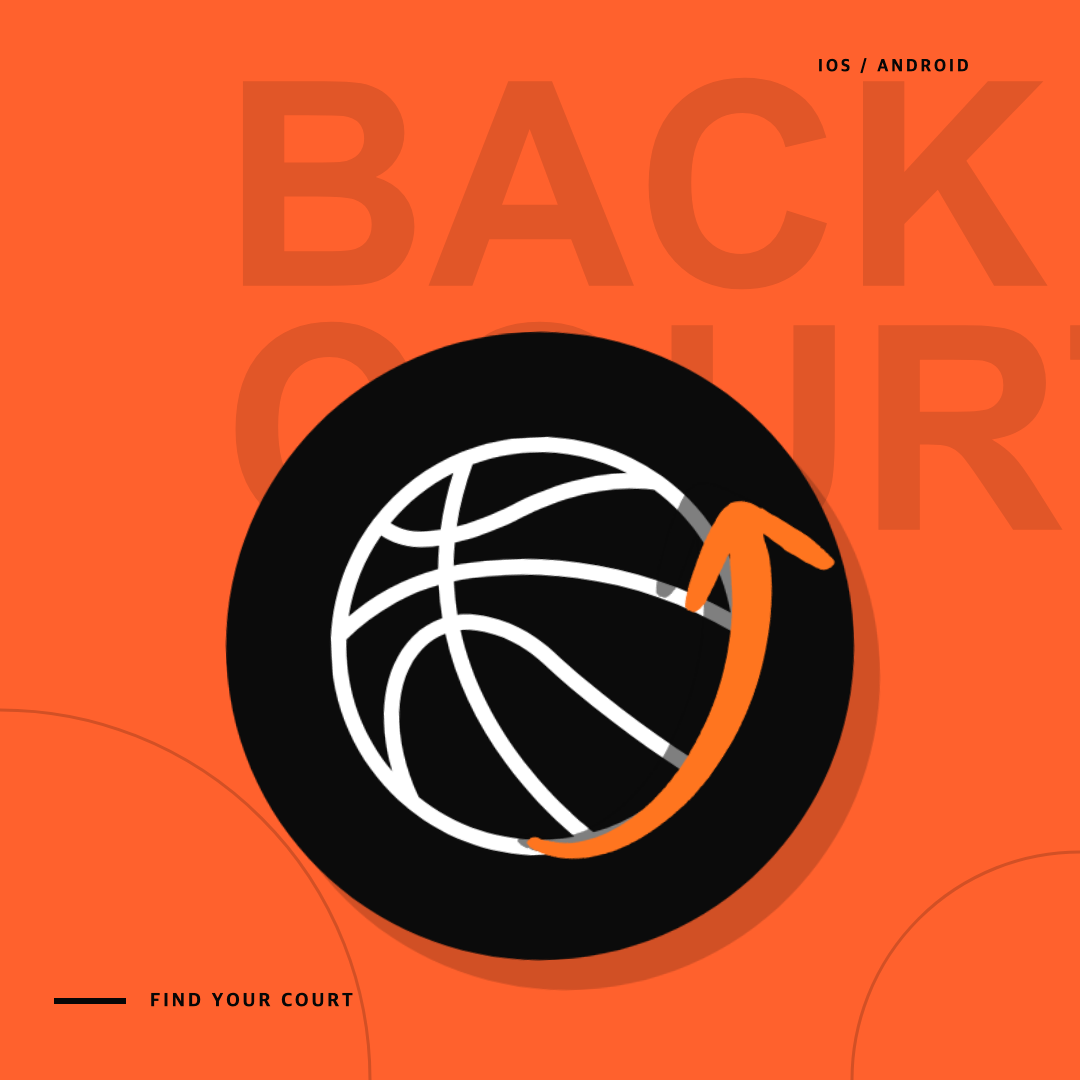
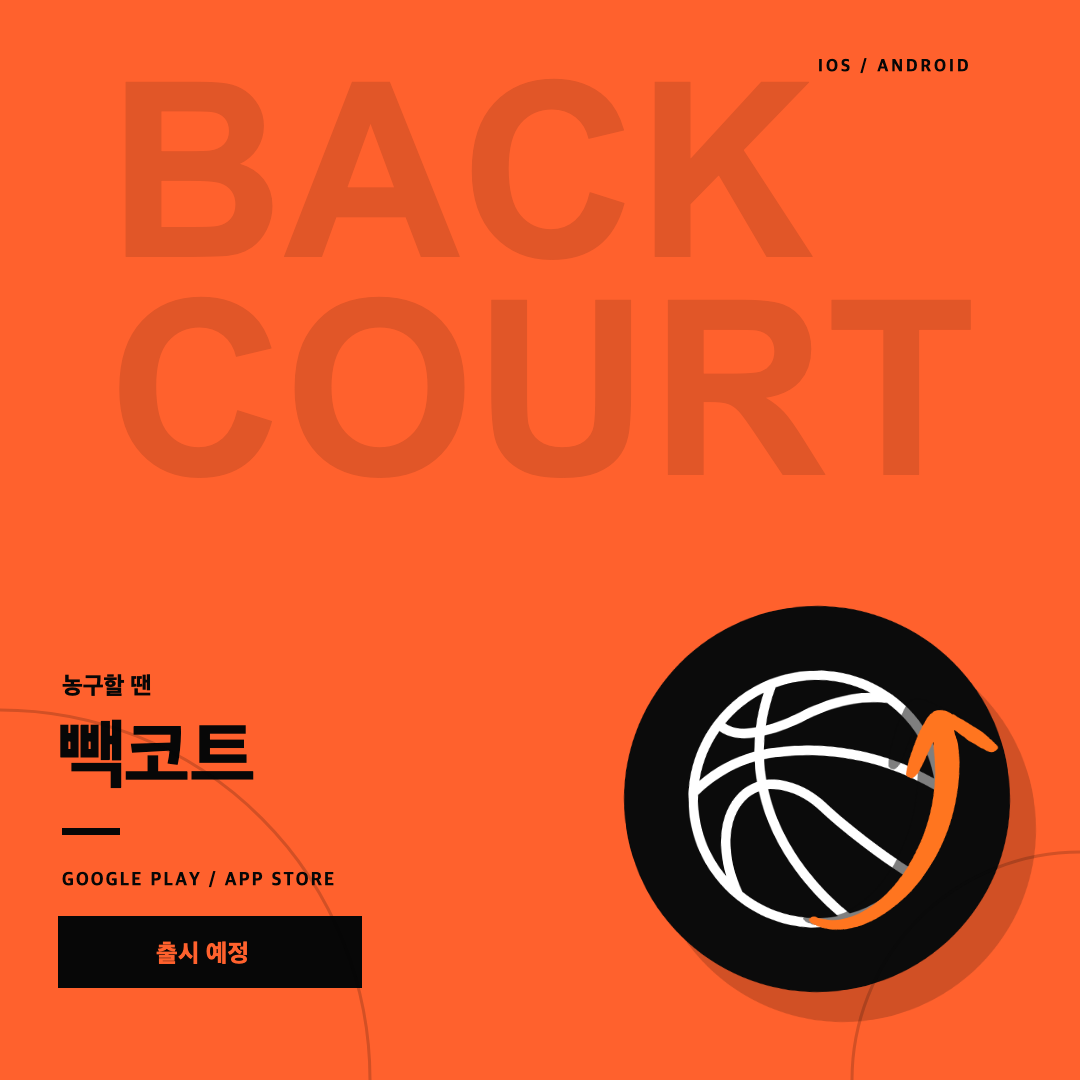
Simplify promo to one launch poster

diff --git a/Backcourt-Social/index.html b/Backcourt-Social/index.html
@@ -11,47 +11,23 @@
     <header class="studio-header">
       <div>
         <p>BACKCOURT / SOCIAL</p>
-        <h1>인스타 피드 초안</h1>
+        <h1>인스타 홍보 포스터</h1>
       </div>
       <div class="header-actions">
         <span>1080 × 1080</span>
-        <button id="download-all" type="button">5장 저장</button>
+        <button id="download-all" type="button">1장 저장</button>
       </div>
     </header>
 
     <main class="board">
       <article class="creative">
-        <div class="creative-meta"><b>01</b><span>브랜드</span></div>
+        <div class="creative-meta"><b>01</b><span>브랜드 · 출시 예정</span></div>
         <div class="canvas-shell"><canvas id="slide-1" width="1080" height="1080"></canvas></div>
         <button class="download" type="button" data-slide="1">PNG 저장</button>
-      </article>
-
-      <article class="creative">
-        <div class="creative-meta"><b>02</b><span>코트 찾기</span></div>
-        <div class="canvas-shell"><canvas id="slide-2" width="1080" height="1080"></canvas></div>
-        <button class="download" type="button" data-slide="2">PNG 저장</button>
-      </article>
-
-      <article class="creative">
-        <div class="creative-meta"><b>03</b><span>LIVE · 약속</span></div>
-        <div class="canvas-shell"><canvas id="slide-3" width="1080" height="1080"></canvas></div>
-        <button class="download" type="button" data-slide="3">PNG 저장</button>
-      </article>
-
-      <article class="creative">
-        <div class="creative-meta"><b>04</b><span>출석 · 랭킹</span></div>
-        <div class="canvas-shell"><canvas id="slide-4" width="1080" height="1080"></canvas></div>
-        <button class="download" type="button" data-slide="4">PNG 저장</button>
-      </article>
-
-      <article class="creative">
-        <div class="creative-meta"><b>05</b><span>피드 · 프로필</span></div>
-        <div class="canvas-shell"><canvas id="slide-5" width="1080" height="1080"></canvas></div>
-        <button class="download" type="button" data-slide="5">PNG 저장</button>
       </article>
     </main>
 
     <footer>문구 · 배치 · 색은 화면 보면서 바로 수정</footer>
-    <script src="./app.js?v=5"></script>
+    <script src="./app.js?v=6"></script>
   </body>
 </html>

diff --git a/Backcourt-Social/app.js b/Backcourt-Social/app.js
@@ -18,7 +18,7 @@ const sources = {
 const images = {};
 const exportSlide = Number(new URLSearchParams(window.location.search).get("export"));
 
-if (exportSlide >= 1 && exportSlide <= 5) {
+if (exportSlide === 1) {
   document.body.classList.add("export-mode");
   document.querySelectorAll(".creative")[exportSlide - 1].classList.add("is-export");
 }
@@ -348,11 +348,23 @@ function courtLines(ctx, color, alpha = .22) {
 function slide1(ctx) {
   ctx.fillStyle = C.orange;
   ctx.fillRect(0, 0, SIZE, SIZE);
-  giantType(ctx, ["BACK", "COURT"], 222, 64, 286, 244, C.ink, .12);
+  giantType(ctx, ["BACK", "COURT"], 108, 68, 244, 218, C.ink, .12);
   platformMeta(ctx);
-  heroIcon(ctx, 226, 332, 628);
+  ctx.fillStyle = C.ink;
+  ctx.font = font(900, 24);
+  ctx.fillText("농구할 땐", 62, 694);
+  ctx.font = font(900, 76);
+  ctx.fillText("빽코트", 58, 782);
+  ctx.fillRect(62, 828, 58, 7);
+  ctx.font = font(900, 18);
+  trackedText(ctx, "GOOGLE PLAY / APP STORE", 62, 886, 2.2);
+  ctx.fillStyle = C.ink;
+  ctx.fillRect(58, 916, 304, 72);
+  ctx.fillStyle = C.orange;
+  ctx.font = font(900, 25);
+  ctx.fillText("출시 예정", 156, 962);
+  heroIcon(ctx, 624, 606, 386, -3);
   courtLines(ctx, C.ink, .18);
-  footerTag(ctx, "FIND YOUR COURT");
 }
 
 function slide2(ctx) {
@@ -459,7 +471,7 @@ function slide5(ctx) {
   ctx.textAlign = "left";
 }
 
-const renderers = [slide1, slide2, slide3, slide4, slide5];
+const renderers = [slide1];
 
 function renderAll() {
   renderers.forEach((render, index) => {
@@ -486,9 +498,7 @@ document.addEventListener("click", (event) => {
 });
 
 document.querySelector("#download-all").addEventListener("click", () => {
-  for (let number = 1; number <= 5; number += 1) {
-    setTimeout(() => downloadSlide(number), (number - 1) * 180);
-  }
+  downloadSlide(1);
 });
 
 Promise.all(Object.entries(sources).map(async ([key, src]) => {
